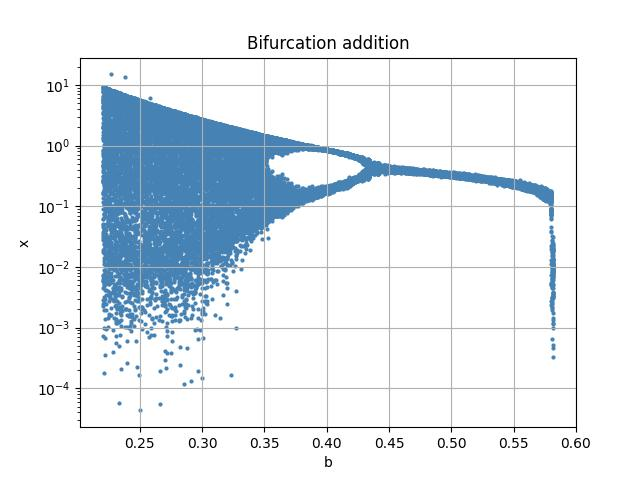
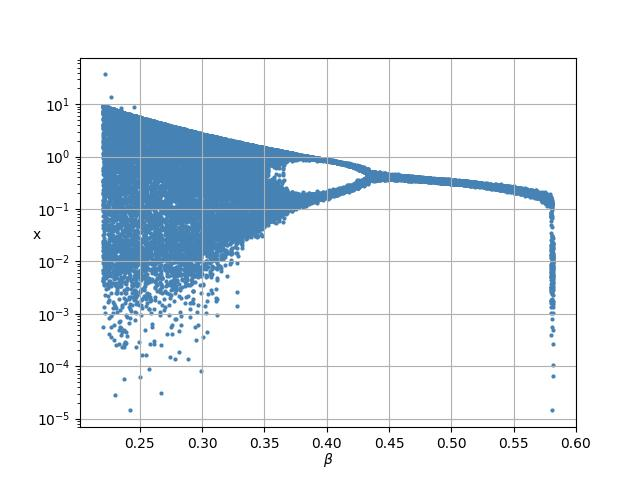
Upd

diff --git a/grpah/runner.py b/grpah/runner.py
@@ -434,9 +434,12 @@ def run_bifurcation():
     source = convert_dict_to_lists(source)
 
     (Plotter()
-        ._setup(r'$\beta$', 'x', 'log', 'major', 'Bifurcation')
+        .setup_x_label('$\\beta$')
+        .setup_y_label('x')
+        .setup_y_scale(scale.log)
+        .setup_grid(grid.major)
+        .setup_title('Bifurcation')
         .scatter(source[0], source[1], '.', colors.steel_blue)
-        .legend()
      # .show())
         .show_last())
 
@@ -449,59 +452,72 @@ def run_compare_chaos_bifurcation():
     a = 1
     epsilon = 0.01
 
-    source = bifurcation(
+    source0 = bifurcation(
         time_range=time_range,
         x_start=x_start,
         p_range=p_range,
         f=lambda b, x: function.f(a, b, x)
     )
-    source = convert_dict_to_lists(source)
+    source0 = convert_dict_to_lists(source0)
 
     (Plotter()
-        ._setup('b', 'x', 'log', 'major', 'Bifurcation')
-        .scatter(source[0], source[1], '.', colors.steel_blue)
+        .setup_x_label('$\\beta$')
+        .setup_y_label('x')
+        .setup_y_scale(scale.log)
+        .setup_grid(grid.major)
+        .setup_title('Bifurcation')
+        .scatter(source0[0], source0[1], '.', colors.steel_blue)
         .show())
 
-    source = bifurcation(
+    source1 = bifurcation(
         time_range=time_range,
         x_start=x_start,
         p_range=p_range,
         f=lambda b, x: functions_a_noise.f(a, b, x, epsilon)
-        # f=lambda b, x: functions.f_pa(a, b, x, epsilon)
     )
-    source = convert_dict_to_lists(source)
+    source1 = convert_dict_to_lists(source1)
 
     (Plotter()
-        ._setup('b', 'x', 'log', 'major', 'Bifurcation alpha')
-        .scatter(source[0], source[1], '.', colors.steel_blue)
+        .setup_x_label('$\\beta$')
+        .setup_y_label('x')
+        .setup_y_scale(scale.log)
+        .setup_grid(grid.major)
+        .setup_title('Bifurcation alpha')
+        .scatter(source1[0], source1[1], '.', colors.steel_blue)
         .show())
 
-    source = bifurcation(
+    source2 = bifurcation(
         time_range=time_range,
         x_start=x_start,
         p_range=p_range,
         f=lambda b, x: functions_b_noise.f(a, b, x, epsilon)
-        # f=lambda b, x: functions.f_pb(a, b, x, epsilon)
     )
-    source = convert_dict_to_lists(source)
+    source2 = convert_dict_to_lists(source2)
 
     (Plotter()
-        ._setup('b', 'x', 'log', 'major', 'Bifurcation beta')
-        .scatter(source[0], source[1], '.', colors.steel_blue)
+        .setup_x_label('$\\beta$')
+        .setup_y_label('x')
+        .setup_y_scale(scale.log)
+        .setup_grid(grid.major)
+        .setup_title('Bifurcation beta')
+        .scatter(source2[0], source2[1], '.', colors.steel_blue)
         .show())
 
-    source = bifurcation(
+    source3 = bifurcation(
         time_range=time_range,
         x_start=x_start,
         p_range=p_range,
-        f=lambda b, x: functions_additive_noise.f(a, b, x, epsilon),
-        # f=lambda b, x: functions.f_p(a, b, x, epsilon)
+        f=lambda b, x: functions_additive_noise.f(a, b, x, epsilon)
     )
-    source = convert_dict_to_lists(source)
+    source3 = convert_dict_to_lists(source3)
 
     (Plotter()
-        ._setup('b', 'x', 'log', 'major', 'Bifurcation addition')
-        .scatter(source[0], source[1], '.', colors.steel_blue)
+        .setup_x_label('$\\beta$')
+        .setup_y_label('x')
+        .setup_y_scale(scale.log)
+        .setup_grid(grid.major)
+        .setup_title('Bifurcation addition')
+        .scatter(source3[0], source3[1], '.', colors.steel_blue)
         .show_last())
 
 

diff --git a/grpah/main.py b/grpah/main.py
@@ -14,7 +14,7 @@ if __name__ == "__main__":
     # run_time_series_alpha_noise()
     # run_time_series_additive_noise()
 
-    run_time_series_compare_noise()
+    # run_time_series_compare_noise()
     # run_time_series_without_chaos_composition()
 
     # Показать график бифуркации
